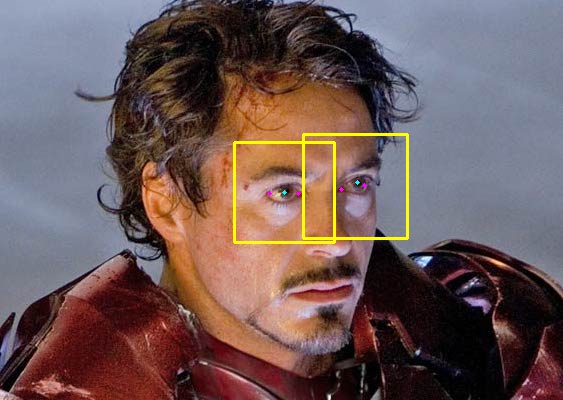
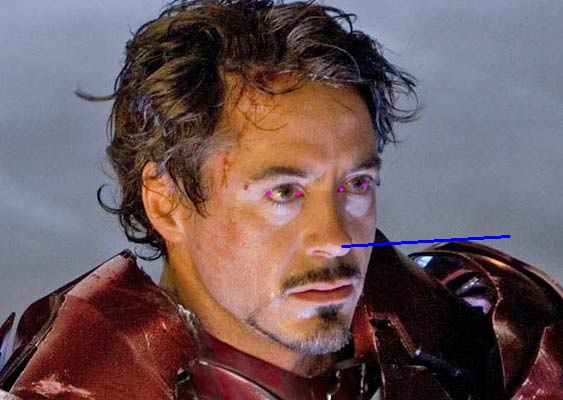
pose estimation

Changed region(s): [[0.3925, 0.33, 0.9059, 0.63]]

diff --git a/components/pnp_solver.py b/components/pnp_solver.py
@@ -3,137 +3,43 @@ import math
 import cv2
 
 
-def distance(point_x, point_y):
-    return math.sqrt(
-        ((point_x[0] - point_y[0]) ** 2) + ((point_x[1] - point_y[1]) ** 2)
-    )
-
-
-def perpendicular(a):
-    b = np.empty_like(a)
-    b[0] = -a[1]
-    b[1] = a[0]
-    return b
-
-
-def clamp(n, min, max):
-    if n < min:
-        return min
-    elif n > max:
-        return max
-    else:
-        return n
-
-
-def eulerAnglesToRotationMatrix(theta):
-    R_x = np.array(
-        [
-            [1, 0, 0],
-            [0, math.cos(theta[0]), -math.sin(theta[0])],
-            [0, math.sin(theta[0]), math.cos(theta[0])],
-        ]
-    )
-    R_y = np.array(
-        [
-            [math.cos(theta[1]), 0, math.sin(theta[1])],
-            [0, 1, 0],
-            [-math.sin(theta[1]), 0, math.cos(theta[1])],
-        ]
-    )
-    R_z = np.array(
-        [
-            [math.cos(theta[2]), -math.sin(theta[2]), 0],
-            [math.sin(theta[2]), math.cos(theta[2]), 0],
-            [0, 0, 1],
-        ]
-    )
-    R = np.dot(R_z, np.dot(R_y, R_x))
-
-    return R
-
-
-def intersectionWithPlan(linePoint, lineDir, planOrth, planPoint):
-    d = np.dot(np.subtract(linePoint, planPoint), planOrth) / (
-        np.dot(lineDir, planOrth)
-    )
-    intersectionPoint = np.subtract(np.multiply(d, lineDir), linePoint)
-    return intersectionPoint
-
-
 class PnPSolver:
     def __init__(self) -> None:
-        self.cameraMatrix = np.eye(3)
-        self.distCoeffs = np.zeros((5, 1))
-        self.eyeConst = 1.5
 
-        self.facePOI3d = np.array(
-            [
-                [-6, 0, -8],  # right ear
-                [6, 0, -8],  # left ear
-                [0, -4, 2.5],  # nose
-                [-5, -8, 0],  # right corner mouth
-                [5, -8, 0],  # left corner mouth
-                [-3, 0, 1],  # right eye
-                [3, 0, 1],  # left eye
-            ]
-        )
-
-    def _rotMatFromEye(self, eyeData):
-        # print eyeData
-        eyeDiameter = self.eyeConst * distance(eyeData[0], eyeData[1])
-        eyeCenter = (
-            (eyeData[1][0][0] + eyeData[1][1][0]) / 2.0,
-            (eyeData[1][0][1] + eyeData[1][1][1]) / 2.0,
-        )
-        eyePos = eyeData[0]
-        # HERE WE CONSTRUCT A MATRIX OF A BASE WHERE THE UNIT IS THE DIAMETER OF THE EYE AND AXIS OF THIS
-        mainEyeAxis = (
-            (eyeData[1][0][0] - eyeData[1][1][0]),
-            (eyeData[1][0][1] - eyeData[1][1][1]),
-        )
-        secondEyeAxis = perpendicular(mainEyeAxis)
-
-        reverseTransitionMatrix = (mainEyeAxis, secondEyeAxis)
-
-        transitionMatrix = np.linalg.inv(reverseTransitionMatrix)
-        eyeCenterInEyeRef = np.dot(transitionMatrix, eyeCenter)
-        eyeCenterInEyeRef[1] = eyeCenterInEyeRef[1] + 0.2
-
-        eyePosInEyeRef = np.dot(transitionMatrix, eyePos)
-
-        eyeOffset = eyePosInEyeRef - eyeCenterInEyeRef
-
-        eyeOffset = [clamp(eyeOffset[0], -0.99, 0.99), clamp(eyeOffset[1], -0.99, 0.99)]
-        # Now we get the rotation values
-        thetay = -np.arcsin(eyeOffset[0]) * self.eyeConst
-        thetax = np.arcsin(eyeOffset[1]) * self.eyeConst
-        # Aaand the rotation matrix
-        rot = eulerAnglesToRotationMatrix([thetax, thetay, 0])
-        # print rot
-        return rot
-
-    # Given the data from a faceExtract
-    def getCoordFromFace(self, FacePOI, eyeData):
-        # SOLVER FOR PNPs
-        distCoeffs = np.zeros((5, 1))
-        # HARDCODED CAM PARAMS
-        width = 2402
-        height = 1201
-        maxSize = max(width, height)
-        cameraMatrix = np.array(
-            [[maxSize, 0, width / 2.0], [0, maxSize, height / 2.0], [0, 0, 1]], np.int32
-        )
+        self.facePOI3d = np.array([
+            (0.0, 0.0, 0.0),             # Nose tip
+            (0.0, -330.0, -65.0),        # Chin
+            (-225.0, 170.0, -135.0),     # Left eye left corner
+            (225.0, 170.0, -135.0),      # Right eye right corner
+            (-150.0, -150.0, -125.0),    # Left Mouth corner
+            (150.0, -150.0, -125.0)      # Right mouth corner
+        ])
         
+    def pose(self, im_size, image_points):    
+        # Camera internals
+        focal_length = im_size[1]
+        center = (im_size[1]/2, im_size[0]/2)
+        camera_matrix = np.array(
+                                [[focal_length, 0, center[0]],
+                                [0, focal_length, center[1]],
+                                [0, 0, 1]], dtype = "double"
+                                )
 
+        print ("Camera Matrix :\n {0}".format(camera_matrix))
+
+        dist_coeffs = np.zeros((4,1)) # Assuming no lens distortion
+        (success, rotation_vector, translation_vector) = cv2.solvePnP(self.facePOI3d, image_points, camera_matrix, dist_coeffs, flags=cv2.SOLVEPNP_ITERATIVE)
+
+        print ("Rotation Vector:\n {0}".format(rotation_vector))
+        print ("Translation Vector:\n {0}".format(translation_vector))
+
+
+        # Project a 3D point (0, 0, 1000.0) onto the image plane.
+        # We use this to draw a line sticking out of the nose
+
+
+        (nose_end_point2D, jacobian) = cv2.projectPoints(np.array([(0.0, 0.0, 1000.0)]), rotation_vector, translation_vector, camera_matrix, dist_coeffs)
+
+
+        return nose_end_point2D
         
-        retval, rvec, tvec = cv2.solvePnP(
-            self.facePOI3d, FacePOI, cameraMatrix, distCoeffs
-        )
-        rt, jacobian = cv2.Rodrigues(rvec)
-        rot2 = self._rotMatFromEye(eyeData)
-
-        origin = [tvec[0][0], tvec[1][0], tvec[2][0]]
-        headDir = np.dot(rot2, np.dot(rt, [0, 0, 1]))
-        camPlaneOrthVector = [0, 0, 1]
-        pointOnPlan = [0, 0, 0]
-        return intersectionWithPlan(origin, headDir, camPlaneOrthVector, pointOnPlan)

diff --git a/main2.py b/main2.py
@@ -19,26 +19,25 @@ for face in landmark_tracking.face_analysis(framebg):
     for mark in face["eye_corners"].values():
         cv2.circle(frame, (mark[0], mark[1]), 2, (255, 0, 255), -1)
     
+    image_points = np.array([
+        face.get("traits").get("nose"),
+        face.get("traits").get("chin"),
+        face.get("eye_corners").get("sx_out"),
+        face.get("eye_corners").get("dx_out"),
+        face.get("traits").get("mouth_sx"),
+        face.get("traits").get("mouth_dx"),
+    ], dtype="double")
     
-    for side in ["dx", "sx"]:
-        cy = face["traits"]["center_eye_"+side][0]
-        cx = face["traits"]["center_eye_"+side][1]
+    
+    nose_end_point2D = pnp_solver.pose(frame.shape, image_points)
         
-        
-        w = int((abs(face["eye_corners"][side+"_in"][1] - face["eye_corners"][side+"_out"][1]) + 100 )/2)
-            
-        cv2.rectangle(frame, (cy-w, cx-w), (cy+w, cx+w), (0, 255, 255), 2)
-        
-        new_img_bg = framebg[cx-w:cx+w, cy-w:cy+w]
-        eye_centers = pupil_detection.detect_pupil(framebg[cx-w:cx+w, cy-w:cy+w])
-        
-        #ncy, ncx = ncy+cy-w, ncx+cx-w
-        cv2.circle(frame, eye_centers, 2, (255, 255, 0), -1)
-        
-        viewPoint=pnp_solver.getCoordFromFace(np.array(list(face["traits"].values()), dtype=np.float32),eye_centers)
-        cv2.line(frame,(int(eye_centers[0]),int(eye_centers[1])),(int(eye_centers[0]-viewPoint[0]),int(eye_centers[1]-viewPoint[1])),(0,255,0),4, -1)
- 
-        
+    p1 = ( int(image_points[0][0]), int(image_points[0][1]))
+    p2 = ( int(nose_end_point2D[0][0][0]), int(nose_end_point2D[0][0][1]))
+
+    cv2.line(frame, p1, p2, (255,0,0), 2)
+
+
+
         
     
     

diff --git a/components/face_landmark.py b/components/face_landmark.py
@@ -25,6 +25,7 @@ class FaceLandmarkTracking():
                     "nose": shape[30],
                     "mouth_dx": shape[48],
                     "mouth_sx": shape[54],
+                    "chin": shape[9],
                     "center_eye_dx": np.round(np.mean(shape[36:42], axis=0)).astype(int),
                     "center_eye_sx": np.round(np.mean(shape[42:48], axis=0)).astype(int),
 
